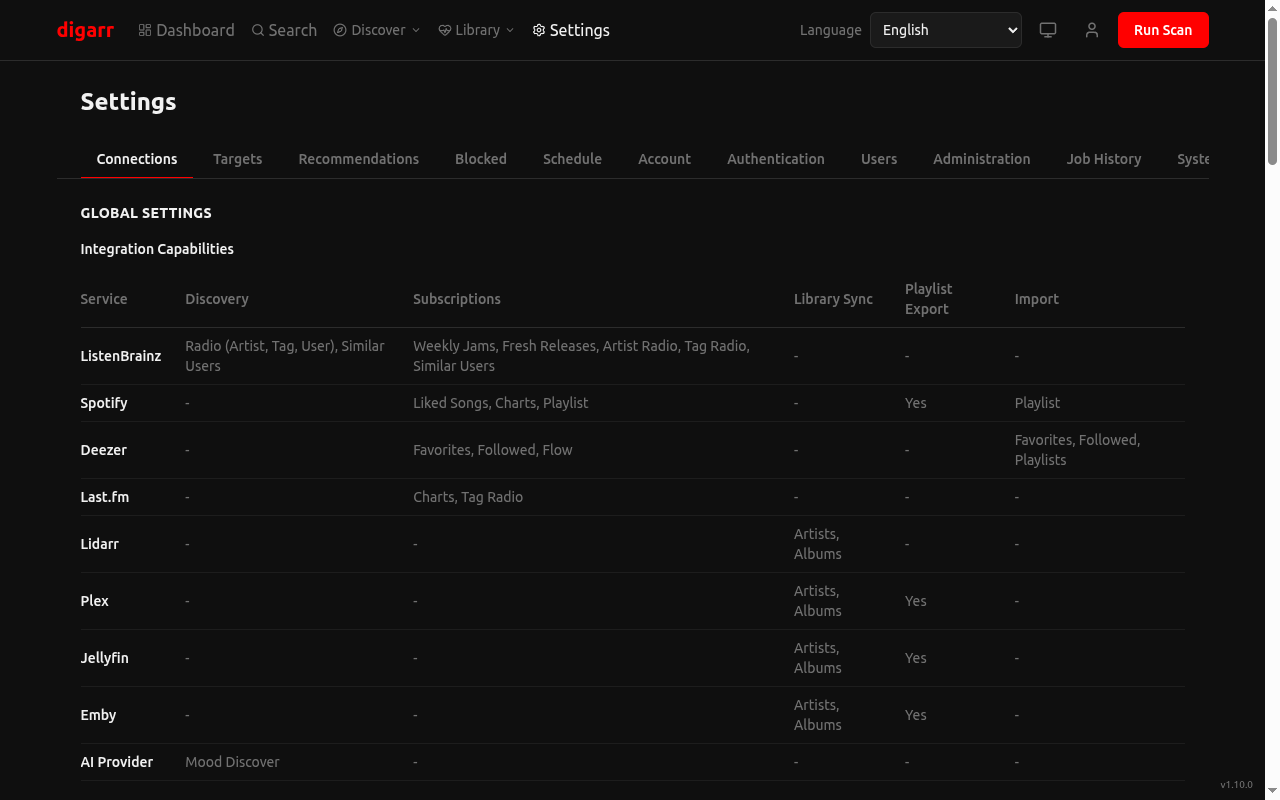
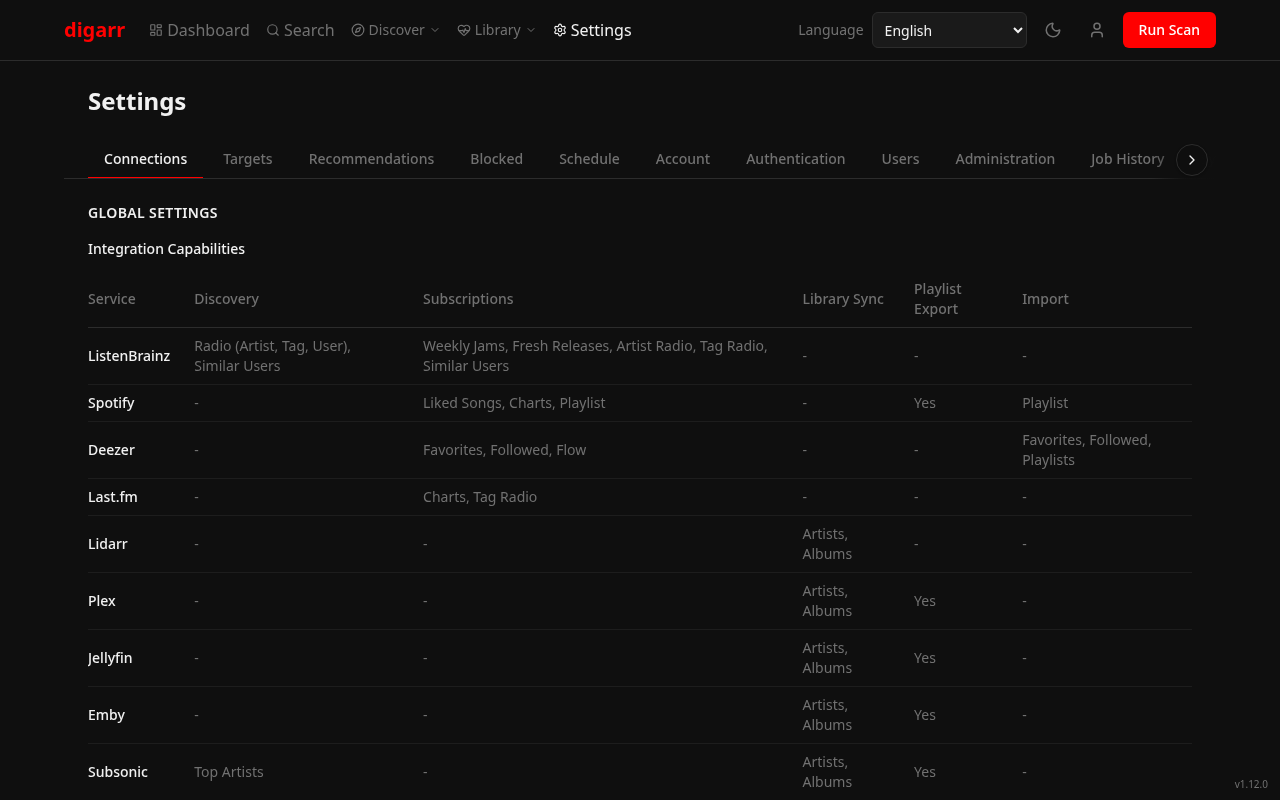
fix(settings): expose overflowing tabs

diff --git a/src/web/pages/settings.tsx b/src/web/pages/settings.tsx
@@ -1,6 +1,6 @@
 import { useQuery, useQueryClient } from '@tanstack/react-query'
-import { Check, Copy } from 'lucide-react'
-import { useEffect, useState } from 'react'
+import { Check, ChevronLeft, ChevronRight, Copy } from 'lucide-react'
+import { useCallback, useEffect, useRef, useState } from 'react'
 import { useLocation, useSearchParams } from 'react-router-dom'
 import { toast } from 'sonner'
 import type { SupportedLocale } from '@/core/i18n/locales'
@@ -142,6 +142,9 @@ function TabBar({
   isAdmin: boolean
 }) {
   const { t } = useI18n()
+  const scrollRef = useRef<HTMLDivElement>(null)
+  const [canScrollLeft, setCanScrollLeft] = useState(false)
+  const [canScrollRight, setCanScrollRight] = useState(false)
   const allTabs: { id: Tab; label: string; adminOnly?: boolean }[] = [
     { id: 'connections', label: t('settings.tabs.connections') },
     { id: 'targets', label: t('settings.tabs.targets') },
@@ -156,26 +159,113 @@ function TabBar({
     { id: 'system-health', label: t('settings.tabs.systemHealth'), adminOnly: true },
   ]
   const tabs = allTabs.filter((tab) => !tab.adminOnly || isAdmin)
+  const visibleTabLabels = tabs.map((tab) => tab.label).join('\u0000')
+  const activeTabLabel = tabs.find((tab) => tab.id === active)?.label
+
+  const updateScrollState = useCallback(() => {
+    const element = scrollRef.current
+    if (!element) return
+    const maxScrollLeft = Math.max(element.scrollWidth - element.clientWidth, 0)
+    setCanScrollLeft(element.scrollLeft > 1)
+    setCanScrollRight(maxScrollLeft - element.scrollLeft > 1)
+  }, [])
+
+  useEffect(() => {
+    const element = scrollRef.current
+    if (!element) return
+
+    window.addEventListener('resize', updateScrollState)
+    const resizeObserver =
+      typeof ResizeObserver === 'undefined' ? null : new ResizeObserver(updateScrollState)
+    resizeObserver?.observe(element)
+
+    return () => {
+      window.removeEventListener('resize', updateScrollState)
+      resizeObserver?.disconnect()
+    }
+  }, [updateScrollState])
+
+  useEffect(() => {
+    if (visibleTabLabels) updateScrollState()
+  }, [visibleTabLabels, updateScrollState])
+
+  useEffect(() => {
+    if (!activeTabLabel) return
+    const activeTab = scrollRef.current?.querySelector<HTMLElement>(
+      `[data-settings-tab="${active}"]`,
+    )
+    activeTab?.scrollIntoView?.({
+      behavior: 'smooth',
+      block: 'nearest',
+      inline: 'nearest',
+    })
+  }, [active, activeTabLabel])
+
+  function scrollTabs(direction: -1 | 1) {
+    const element = scrollRef.current
+    if (!element) return
+    element.scrollBy({ behavior: 'smooth', left: direction * element.clientWidth * 0.75 })
+  }
+
   return (
-    <div
-      className="flex gap-1 border-b border-border mb-6 overflow-x-auto -mx-6 px-6"
-      style={{ scrollbarWidth: 'none' }}
-    >
-      {tabs.map((tab) => (
-        <button
-          key={tab.id}
-          type="button"
-          onClick={() => onChange(tab.id)}
-          className={[
-            'px-3 sm:px-4 py-2 text-sm font-medium border-b-2 -mb-px transition-colors whitespace-nowrap shrink-0',
-            active === tab.id
-              ? 'border-accent text-text'
-              : 'border-transparent text-muted hover:text-text',
-          ].join(' ')}
-        >
-          {tab.label}
-        </button>
-      ))}
+    <div className="relative -mx-6 mb-6">
+      {canScrollLeft && (
+        <>
+          <div
+            aria-hidden="true"
+            className="pointer-events-none absolute inset-y-0 left-0 z-10 w-16 bg-gradient-to-r from-bg via-bg/90 to-transparent"
+          />
+          <button
+            type="button"
+            aria-label={t('settings.tabs.scrollLeft')}
+            onClick={() => scrollTabs(-1)}
+            className="absolute left-2 top-1/2 z-20 flex h-8 w-8 -translate-y-1/2 items-center justify-center rounded-full border border-border bg-bg/95 text-text shadow-sm hover:border-accent focus-visible:outline-none focus-visible:ring-2 focus-visible:ring-accent"
+          >
+            <ChevronLeft aria-hidden="true" className="h-4 w-4" />
+          </button>
+        </>
+      )}
+      <div
+        ref={scrollRef}
+        data-testid="settings-tabs-scroll"
+        onScroll={updateScrollState}
+        className="flex gap-1 overflow-x-auto scroll-px-16 border-b border-border px-6"
+        style={{ scrollbarWidth: 'none' }}
+      >
+        {tabs.map((tab) => (
+          <button
+            key={tab.id}
+            data-settings-tab={tab.id}
+            type="button"
+            aria-current={active === tab.id ? 'page' : undefined}
+            onClick={() => onChange(tab.id)}
+            className={[
+              'px-3 sm:px-4 py-2 text-sm font-medium border-b-2 -mb-px transition-colors whitespace-nowrap shrink-0',
+              active === tab.id
+                ? 'border-accent text-text'
+                : 'border-transparent text-muted hover:text-text',
+            ].join(' ')}
+          >
+            {tab.label}
+          </button>
+        ))}
+      </div>
+      {canScrollRight && (
+        <>
+          <div
+            aria-hidden="true"
+            className="pointer-events-none absolute inset-y-0 right-0 z-10 w-16 bg-gradient-to-l from-bg via-bg/90 to-transparent"
+          />
+          <button
+            type="button"
+            aria-label={t('settings.tabs.scrollRight')}
+            onClick={() => scrollTabs(1)}
+            className="absolute right-2 top-1/2 z-20 flex h-8 w-8 -translate-y-1/2 items-center justify-center rounded-full border border-border bg-bg/95 text-text shadow-sm hover:border-accent focus-visible:outline-none focus-visible:ring-2 focus-visible:ring-accent"
+          >
+            <ChevronRight aria-hidden="true" className="h-4 w-4" />
+          </button>
+        </>
+      )}
     </div>
   )
 }

diff --git a/tests/web/pages/settings.test.tsx b/tests/web/pages/settings.test.tsx
@@ -255,6 +255,13 @@ function setupMocks(settings: Record<string, unknown> = mockSettings) {
 describe('SettingsPage', () => {
   beforeEach(() => {
     vi.clearAllMocks()
+    Object.defineProperty(globalThis, 'ResizeObserver', {
+      configurable: true,
+      value: class {
+        observe = vi.fn()
+        disconnect = vi.fn()
+      },
+    })
     const storage = new Map<string, string>()
     Object.defineProperty(globalThis, 'localStorage', {
       configurable: true,
@@ -362,6 +369,56 @@ describe('SettingsPage', () => {
     expect(screen.getByText('Schedule')).toBeInTheDocument()
     expect(screen.getByText('Job History')).toBeInTheDocument()
     expect(screen.getByText('System Health')).toBeInTheDocument()
+  })
+
+  it('shows directional controls only where settings tabs are hidden', async () => {
+    setupMocks()
+    renderWithQuery(<SettingsPage />)
+
+    await screen.findByText('Connections')
+    const tabStrip = screen.getByTestId('settings-tabs-scroll')
+    const scrollBy = vi.fn()
+    Object.defineProperties(tabStrip, {
+      clientWidth: { configurable: true, value: 320 },
+      scrollWidth: { configurable: true, value: 900 },
+      scrollLeft: { configurable: true, value: 0, writable: true },
+      scrollBy: { configurable: true, value: scrollBy },
+    })
+
+    fireEvent.scroll(tabStrip)
+
+    expect(tabStrip).toHaveClass('overflow-x-auto', 'scroll-px-16')
+    expect(screen.queryByRole('button', { name: 'Scroll settings tabs left' })).toBeNull()
+    const scrollRight = screen.getByRole('button', { name: 'Scroll settings tabs right' })
+    fireEvent.click(scrollRight)
+    expect(scrollBy).toHaveBeenCalledWith({ behavior: 'smooth', left: 240 })
+
+    tabStrip.scrollLeft = 300
+    fireEvent.scroll(tabStrip)
+    expect(screen.getByRole('button', { name: 'Scroll settings tabs left' })).toBeVisible()
+    expect(screen.getByRole('button', { name: 'Scroll settings tabs right' })).toBeVisible()
+
+    tabStrip.scrollLeft = 580
+    fireEvent.scroll(tabStrip)
+    expect(screen.getByRole('button', { name: 'Scroll settings tabs left' })).toBeVisible()
+    expect(screen.queryByRole('button', { name: 'Scroll settings tabs right' })).toBeNull()
+  })
+
+  it('scrolls the active settings tab into view', async () => {
+    setupMocks()
+    const scrollIntoView = vi.fn()
+    Element.prototype.scrollIntoView = scrollIntoView
+
+    renderWithQuery(<SettingsPage />, ['/settings?tab=system-health'])
+
+    await screen.findByRole('button', { name: 'System Health' })
+    await waitFor(() => {
+      expect(scrollIntoView).toHaveBeenCalledWith({
+        behavior: 'smooth',
+        block: 'nearest',
+        inline: 'nearest',
+      })
+    })
   })
 
   it('defaults to Connections tab showing Lidarr section', async () => {

diff --git a/tests/e2e/a11y/settings.spec.ts b/tests/e2e/a11y/settings.spec.ts
@@ -25,4 +25,37 @@ test.describe('Settings page a11y', () => {
     }
     expect(results.violations).toEqual([])
   })
+
+  test('overflow controls are keyboard accessible', async ({ page }) => {
+    await page.setViewportSize({ width: 820, height: 800 })
+    const token = await ensureAdminToken(page.request, { completeSetup: true })
+    expect(token).toBeTruthy()
+    if (!token) return
+    await installBrowserLocale(page, 'en')
+    await installAuthToken(page, token)
+    await page.goto('/settings')
+
+    const scrollRight = page.getByRole('button', { name: 'Scroll settings tabs right' })
+    await expect(scrollRight).toBeVisible()
+    await scrollRight.focus()
+    await page.keyboard.press('Enter')
+
+    await expect(page.getByRole('button', { name: 'Scroll settings tabs left' })).toBeVisible()
+
+    await page.goto('/settings?tab=administration')
+    const activeTab = page.getByRole('button', { name: 'Administration' })
+    const tabStrip = page.getByTestId('settings-tabs-scroll')
+    await expect(activeTab).toBeInViewport()
+    await expect(page.getByRole('button', { name: 'Scroll settings tabs right' })).toBeVisible()
+    await expect
+      .poll(async () => {
+        const [activeBox, stripBox] = await Promise.all([
+          activeTab.boundingBox(),
+          tabStrip.boundingBox(),
+        ])
+        if (!activeBox || !stripBox) return 0
+        return stripBox.x + stripBox.width - (activeBox.x + activeBox.width)
+      })
+      .toBeGreaterThanOrEqual(60)
+  })
 })

diff --git a/src/core/i18n/messages/uk.ts b/src/core/i18n/messages/uk.ts
@@ -954,6 +954,8 @@ export const uk = {
   'settings.tabs.administration': 'Адміністрування',
   'settings.tabs.jobHistory': 'Історія завдань',
   'settings.tabs.systemHealth': 'Стан системи',
+  'settings.tabs.scrollLeft': 'Прокрутити вкладки налаштувань ліворуч',
+  'settings.tabs.scrollRight': 'Прокрутити вкладки налаштувань праворуч',
   'settings.globalSettings': 'Глобальні налаштування',
   'settings.adminOnly': 'Лише адміністратори можуть змінювати глобальні налаштування.',
   'settings.yourConnections': 'Ваші підключення',

diff --git a/src/core/i18n/messages/ru.ts b/src/core/i18n/messages/ru.ts
@@ -959,6 +959,8 @@ export const ru = {
   'settings.tabs.administration': 'Администрирование',
   'settings.tabs.jobHistory': 'История задач',
   'settings.tabs.systemHealth': 'Состояние системы',
+  'settings.tabs.scrollLeft': 'Прокрутить вкладки настроек влево',
+  'settings.tabs.scrollRight': 'Прокрутить вкладки настроек вправо',
   'settings.globalSettings': 'Глобальные настройки',
   'settings.adminOnly': 'Только администраторы могут изменять глобальные настройки.',
   'settings.yourConnections': 'Ваши подключения',

diff --git a/src/core/i18n/messages/es.ts b/src/core/i18n/messages/es.ts
@@ -952,6 +952,8 @@ export const es = {
   'settings.tabs.administration': 'Administración',
   'settings.tabs.jobHistory': 'Historial de tareas',
   'settings.tabs.systemHealth': 'Salud del sistema',
+  'settings.tabs.scrollLeft': 'Desplazar las pestañas de configuración hacia la izquierda',
+  'settings.tabs.scrollRight': 'Desplazar las pestañas de configuración hacia la derecha',
   'settings.globalSettings': 'Ajustes globales',
   'settings.adminOnly': 'Solo los administradores pueden modificar los ajustes globales.',
   'settings.yourConnections': 'Tus conexiones',

diff --git a/src/core/i18n/messages/fr.ts b/src/core/i18n/messages/fr.ts
@@ -951,6 +951,8 @@ export const fr = {
   'settings.tabs.administration': 'Gestion',
   'settings.tabs.jobHistory': 'Historique des tâches',
   'settings.tabs.systemHealth': 'Etat du systeme',
+  'settings.tabs.scrollLeft': 'Faire défiler les onglets des paramètres vers la gauche',
+  'settings.tabs.scrollRight': 'Faire défiler les onglets des paramètres vers la droite',
   'settings.globalSettings': 'Paramètres globaux',
   'settings.adminOnly': 'Seuls les administrateurs peuvent modifier les paramètres globaux.',
   'settings.yourConnections': 'Vos connexions',

diff --git a/src/core/i18n/messages/it.ts b/src/core/i18n/messages/it.ts
@@ -955,6 +955,8 @@ export const it = {
   'settings.tabs.administration': 'Amministrazione',
   'settings.tabs.jobHistory': 'Cronologia attività',
   'settings.tabs.systemHealth': 'Stato del sistema',
+  'settings.tabs.scrollLeft': 'Scorri le schede delle impostazioni verso sinistra',
+  'settings.tabs.scrollRight': 'Scorri le schede delle impostazioni verso destra',
   'settings.globalSettings': 'Impostazioni globali',
   'settings.adminOnly': 'Solo gli amministratori possono modificare le impostazioni globali.',
   'settings.yourConnections': 'Le tue connessioni',

diff --git a/src/core/i18n/messages/pt-BR.ts b/src/core/i18n/messages/pt-BR.ts
@@ -954,6 +954,8 @@ export const ptBR = {
   'settings.tabs.administration': 'Administração',
   'settings.tabs.jobHistory': 'Histórico de tarefas',
   'settings.tabs.systemHealth': 'Saúde do sistema',
+  'settings.tabs.scrollLeft': 'Rolar as abas de configurações para a esquerda',
+  'settings.tabs.scrollRight': 'Rolar as abas de configurações para a direita',
   'settings.globalSettings': 'Configurações globais',
   'settings.adminOnly': 'Somente administradores podem modificar as configurações globais.',
   'settings.yourConnections': 'Suas conexões',

diff --git a/src/core/i18n/messages/ja.ts b/src/core/i18n/messages/ja.ts
@@ -944,6 +944,8 @@ export const ja = {
   'settings.tabs.administration': '管理',
   'settings.tabs.jobHistory': 'ジョブ履歴',
   'settings.tabs.systemHealth': 'システムの健全性',
+  'settings.tabs.scrollLeft': '設定タブを左にスクロール',
+  'settings.tabs.scrollRight': '設定タブを右にスクロール',
   'settings.globalSettings': 'グローバル設定',
   'settings.adminOnly': 'グローバル設定を変更できるのは管理者のみです。',
   'settings.yourConnections': '接続済みサービス',

diff --git a/src/core/i18n/messages/nl.ts b/src/core/i18n/messages/nl.ts
@@ -949,6 +949,8 @@ export const nl = {
   'settings.tabs.administration': 'Beheer',
   'settings.tabs.jobHistory': 'Taakgeschiedenis',
   'settings.tabs.systemHealth': 'Systeemstatus',
+  'settings.tabs.scrollLeft': 'Instellingentabbladen naar links scrollen',
+  'settings.tabs.scrollRight': 'Instellingentabbladen naar rechts scrollen',
   'settings.globalSettings': 'Globale instellingen',
   'settings.adminOnly': 'Alleen beheerders kunnen globale instellingen wijzigen.',
   'settings.yourConnections': 'Jouw verbindingen',

diff --git a/src/core/i18n/messages/ro.ts b/src/core/i18n/messages/ro.ts
@@ -956,6 +956,8 @@ export const ro = {
   'settings.tabs.administration': 'Administrare',
   'settings.tabs.jobHistory': 'Istoric sarcini',
   'settings.tabs.systemHealth': 'Starea sistemului',
+  'settings.tabs.scrollLeft': 'Derulează filele de setări spre stânga',
+  'settings.tabs.scrollRight': 'Derulează filele de setări spre dreapta',
   'settings.globalSettings': 'Setări globale',
   'settings.adminOnly': 'Doar administratorii pot modifica setările globale.',
   'settings.yourConnections': 'Conexiunile dvs.',
